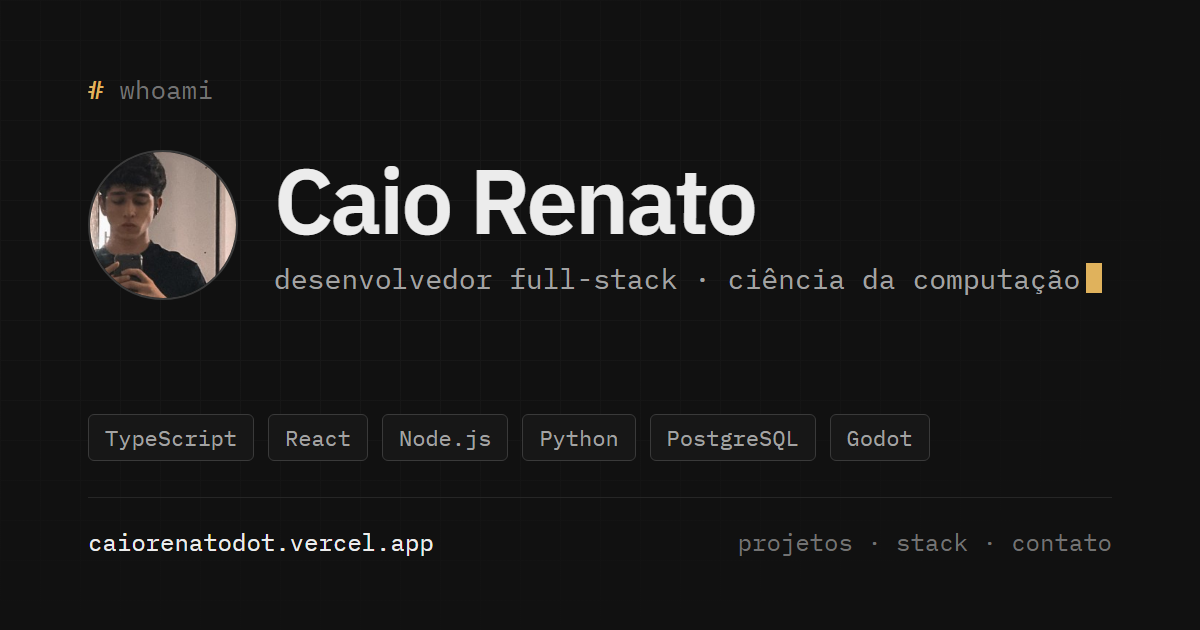
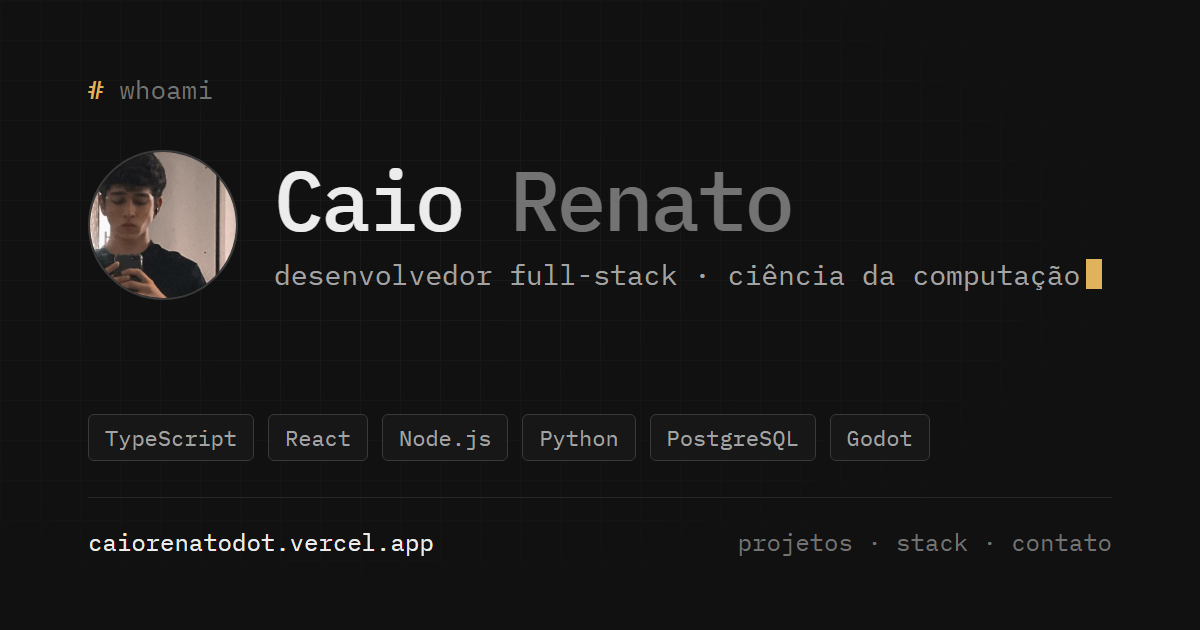
style: nome no hero e na miniatura em fonte mono, no padrão da marca

Changed region(s): [[0.2158, 0.2714, 0.6783, 0.3921], [0.2158, 0.4222, 0.925, 0.4825]]

diff --git a/src/components/Hero.tsx b/src/components/Hero.tsx
@@ -9,7 +9,9 @@ export function Hero() {
       <div className="hero__id">
         <img src="/images/profile.jpeg" alt="" className="hero__avatar" width={64} height={64} />
         <div>
-          <h1 className="hero__name">{profile.name}</h1>
+          <h1 className="hero__name">
+            Caio <span className="hero__last">Renato</span>
+          </h1>
           <p className="meta">estudante de ciência da computação</p>
         </div>
       </div>

diff --git a/src/styles.css b/src/styles.css
@@ -204,10 +204,15 @@ a:hover {
 }
 
 .hero__name {
-  font-size: clamp(2rem, 4.5vw, 2.75rem);
-  font-weight: 600;
-  line-height: 1.1;
-  letter-spacing: -0.02em;
+  font-family: var(--mono);
+  font-size: clamp(1.875rem, 4.5vw, 2.5rem);
+  font-weight: 500;
+  line-height: 1.15;
+  letter-spacing: -0.03em;
+}
+
+.hero__last {
+  color: var(--faint);
 }
 
 .hero__id .meta {

diff --git a/src/main.tsx b/src/main.tsx
@@ -4,6 +4,7 @@ import "@fontsource/ibm-plex-sans/latin-400.css";
 import "@fontsource/ibm-plex-sans/latin-500.css";
 import "@fontsource/ibm-plex-sans/latin-600.css";
 import "@fontsource/ibm-plex-mono/latin-400.css";
+import "@fontsource/ibm-plex-mono/latin-500.css";
 import "./styles.css";
 import App from "./App";
 
